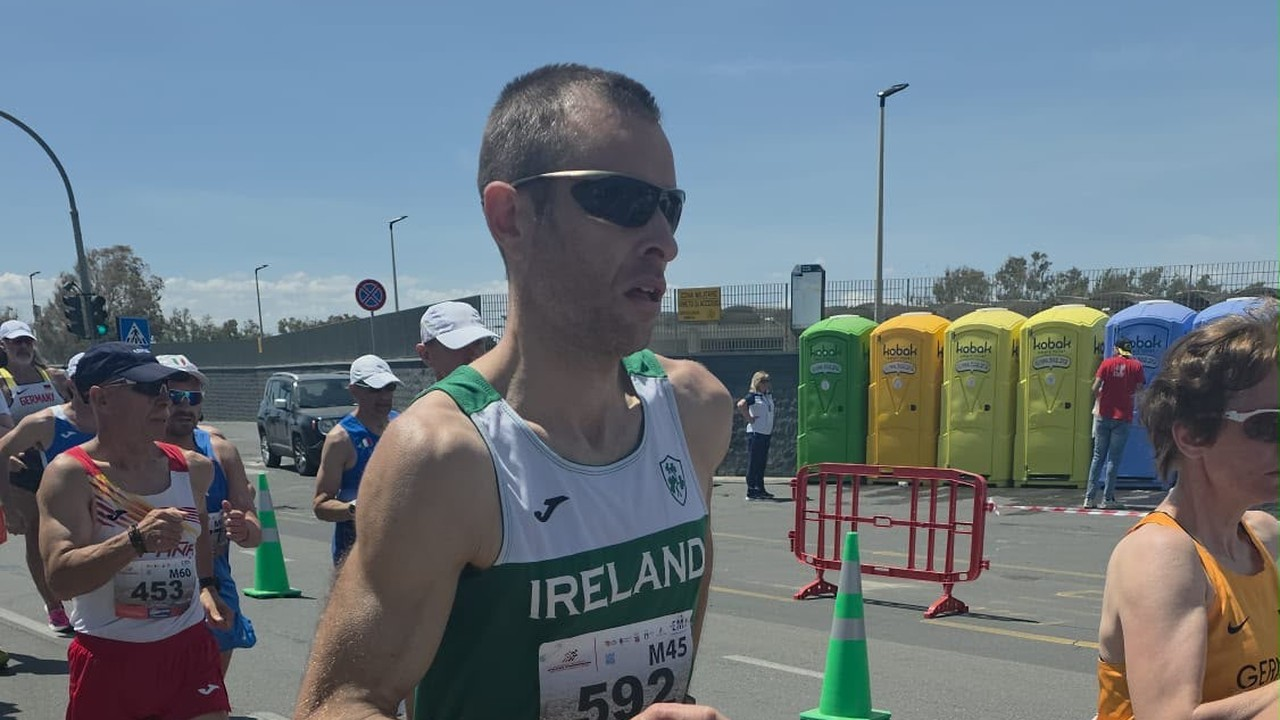
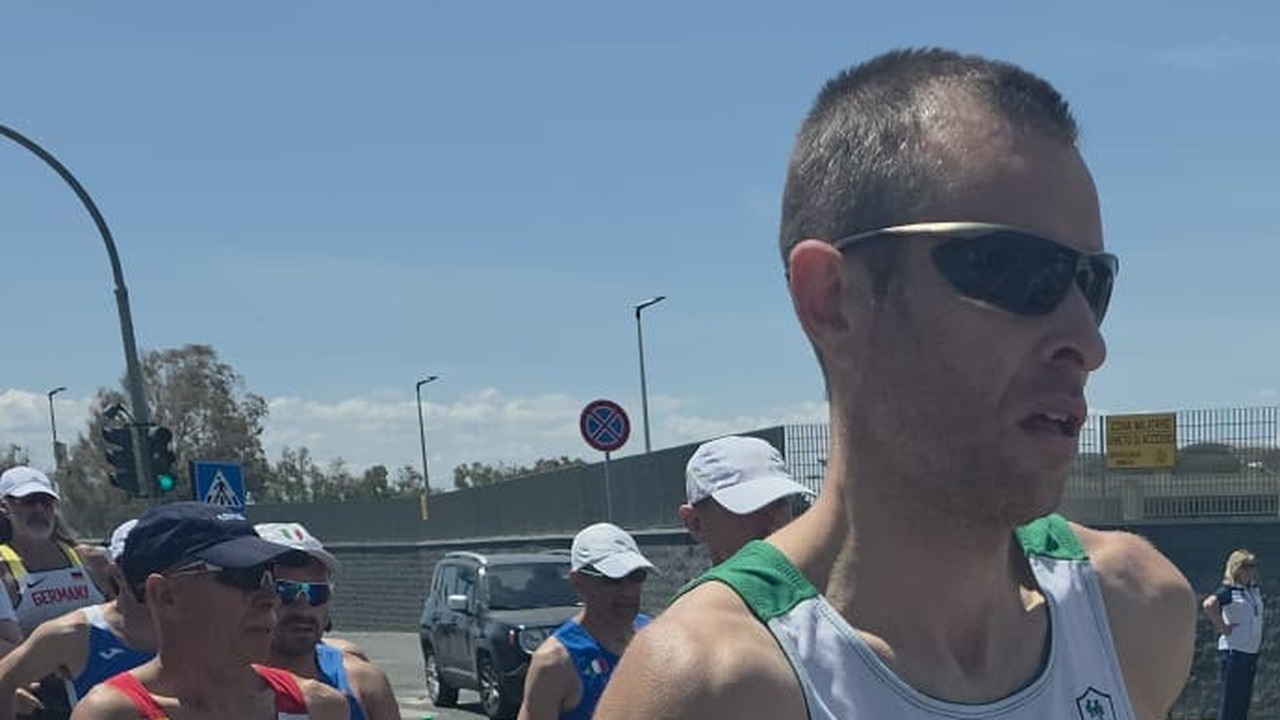
150

diff --git a/news.html b/news.html
@@ -277,6 +277,17 @@
   <div class="news-inner">
     <div class="news-grid">
 
+      <!-- POST: 150 registered -->
+      <div class="post-card" onclick="openPost('150-athletes-registered')">
+        <img class="post-card-img" src="150-athletes-registered.png" alt="150 athletes registered from 18 countries for EMACNS Galway 2028" />
+        <div class="post-card-body">
+          <p class="post-date">1 November 2026</p>
+          <h2 class="post-title">One Hundred and Fifty — and How You Found Us</h2>
+          <p class="post-summary">Five weeks after the dates were announced, 150 athletes from 18 countries have registered their interest. We went through every answer to ask how people heard about Galway 2028, and the results are worth sharing.</p>
+          <span class="post-read-more">Read more →</span>
+        </div>
+      </div>
+
       <!-- POST: Athlete interview — Ross Alexander -->
       <div class="post-card" onclick="openPost('interview-ross-alexander')">
         <img class="post-card-img" src="interview-ross-1280x720.jpg" alt="Ross Alexander race walking for Ireland at the European Masters Non-Stadia Championships in Catania" />
@@ -547,6 +558,33 @@
 </section>
 
 <!-- POST MODALS -->
+
+<!-- Modal: 150 registered -->
+<div class="modal-overlay" id="modal-150-athletes-registered" onclick="closeModal(event, '150-athletes-registered')">
+  <div class="modal">
+    <button class="modal-close" onclick="closePost('150-athletes-registered')">✕</button>
+    <p class="modal-date">1 November 2026</p>
+    <h2 class="modal-title">One Hundred and Fifty — and How You Found Us</h2>
+    <div class="modal-content">
+      <img class="modal-img" src="150-athletes-registered.png" alt="150 athletes registered from 18 countries for EMACNS Galway 2028" />
+      <p>Five weeks ago European Masters Athletics confirmed the dates for Galway 2028. Since then <strong>150 athletes from 18 countries</strong> have registered their interest — and entries have not even opened yet.</p>
+      <p>Ireland and the United Kingdom lead the way, which is no surprise. But there are athletes signed up from Spain, France, Germany, Italy, the Netherlands, Poland, Portugal, Belgium, Bulgaria, Estonia, Latvia and Finland, and from further out than we expected: Canada, the United States, the Faroe Islands and, as of this morning, Norway.</p>
+      <p>The form asks one question we were not sure anyone would bother answering: how did you hear about Galway 2028?</p>
+      <h3>What people told us</h3>
+      <p><strong>Social media brought the largest single group</strong> — around fifty people, mostly Facebook, with a handful through Instagram. No surprise there. But the more interesting answers were the ones underneath.</p>
+      <p><strong>Twelve people found us because they were in Catania.</strong> They raced at the last European Masters Non-Stadia Championships in 2026, heard Galway was next, and came looking. That is the clearest sign we have that these championships carry their own community from one edition to the next, and it is a reminder of what we are joining rather than starting.</p>
+      <p><strong>Twenty-one came through European Masters Athletics</strong> — the website, the calendar, the announcement. <strong>Another fifteen came through their national masters bodies:</strong> the Irish Masters Athletics Association, Northern Ireland Masters, the British Masters Athletic Federation, and the Polish masters association, whose own website carried the news. Several arrived via WhatsApp groups run by national teams.</p>
+      <p><strong>Seventeen people were told by somebody else</strong> — a friend, a clubmate, a training partner, "other athletes", "fellow runner". One came through Galway Trail Running. And some came from the flyer we had made for the National Cross Country Championships.</p>
+      <p>And a small but striking group said they found us through ChatGPT or an AI search.</p>
+      <h3>What that tells us</h3>
+      <p>The championship community is doing more work than our own channels are. Athletes who raced in Catania, national masters federations, team WhatsApp groups, one runner telling another at a club session — together those account for more sign-ups than Facebook does. We are grateful for every one of them, and we'd love to know what more we can be doing to support people and organisations spreading the word.</p>
+      <p>One more thing the numbers show. Of the four disciplines, the walks are the quietest: only a handful have registered for Nordic walking, and race walking is thinner than the road races. If you walk, or you know people who do, there is a championship here with plenty of room in it.</p>
+      <p>Eighteen and a half months to go. If you have not registered yet, it takes about a minute, and we'll get you updated and tell you first when the entries are open.</p>
+      <p><a href="index.html#register">Register your interest</a></p>
+      <p><em>The EMACNS Galway 2028 Organising Committee</em></p>
+    </div>
+  </div>
+</div>
 
 <!-- Modal: Athlete interview — Ross Alexander -->
 <div class="modal-overlay" id="modal-interview-ross-alexander" onclick="closeModal(event, 'interview-ross-alexander')">
